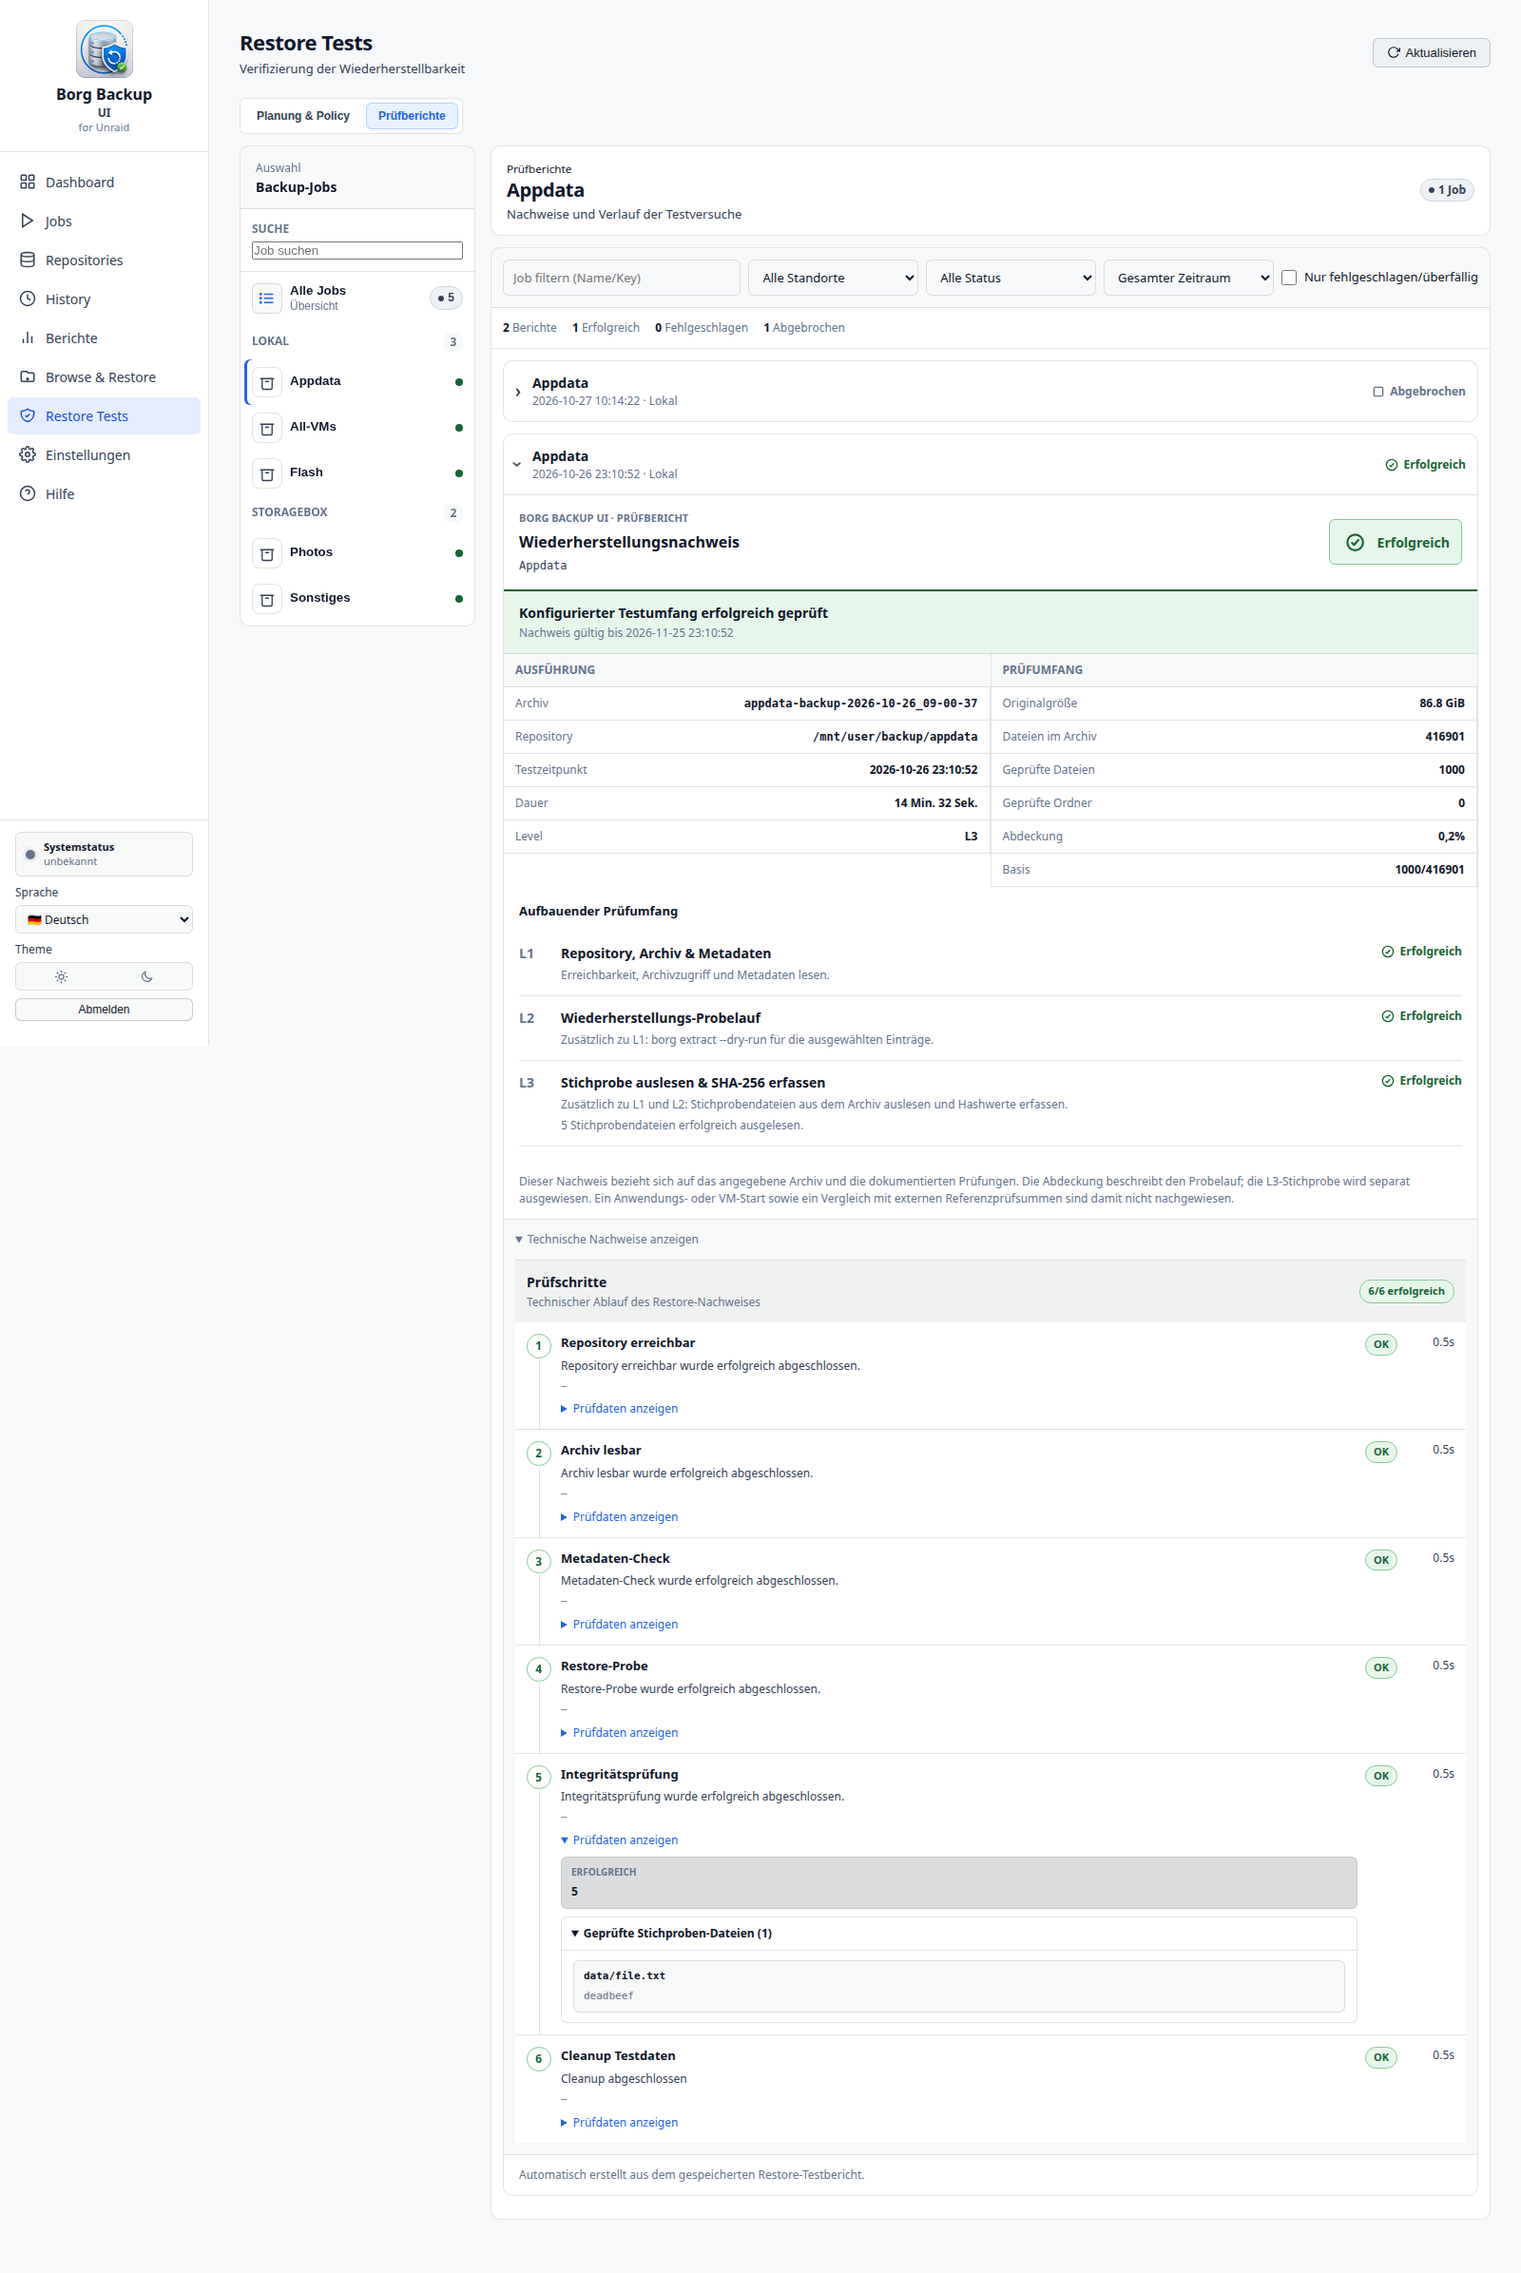
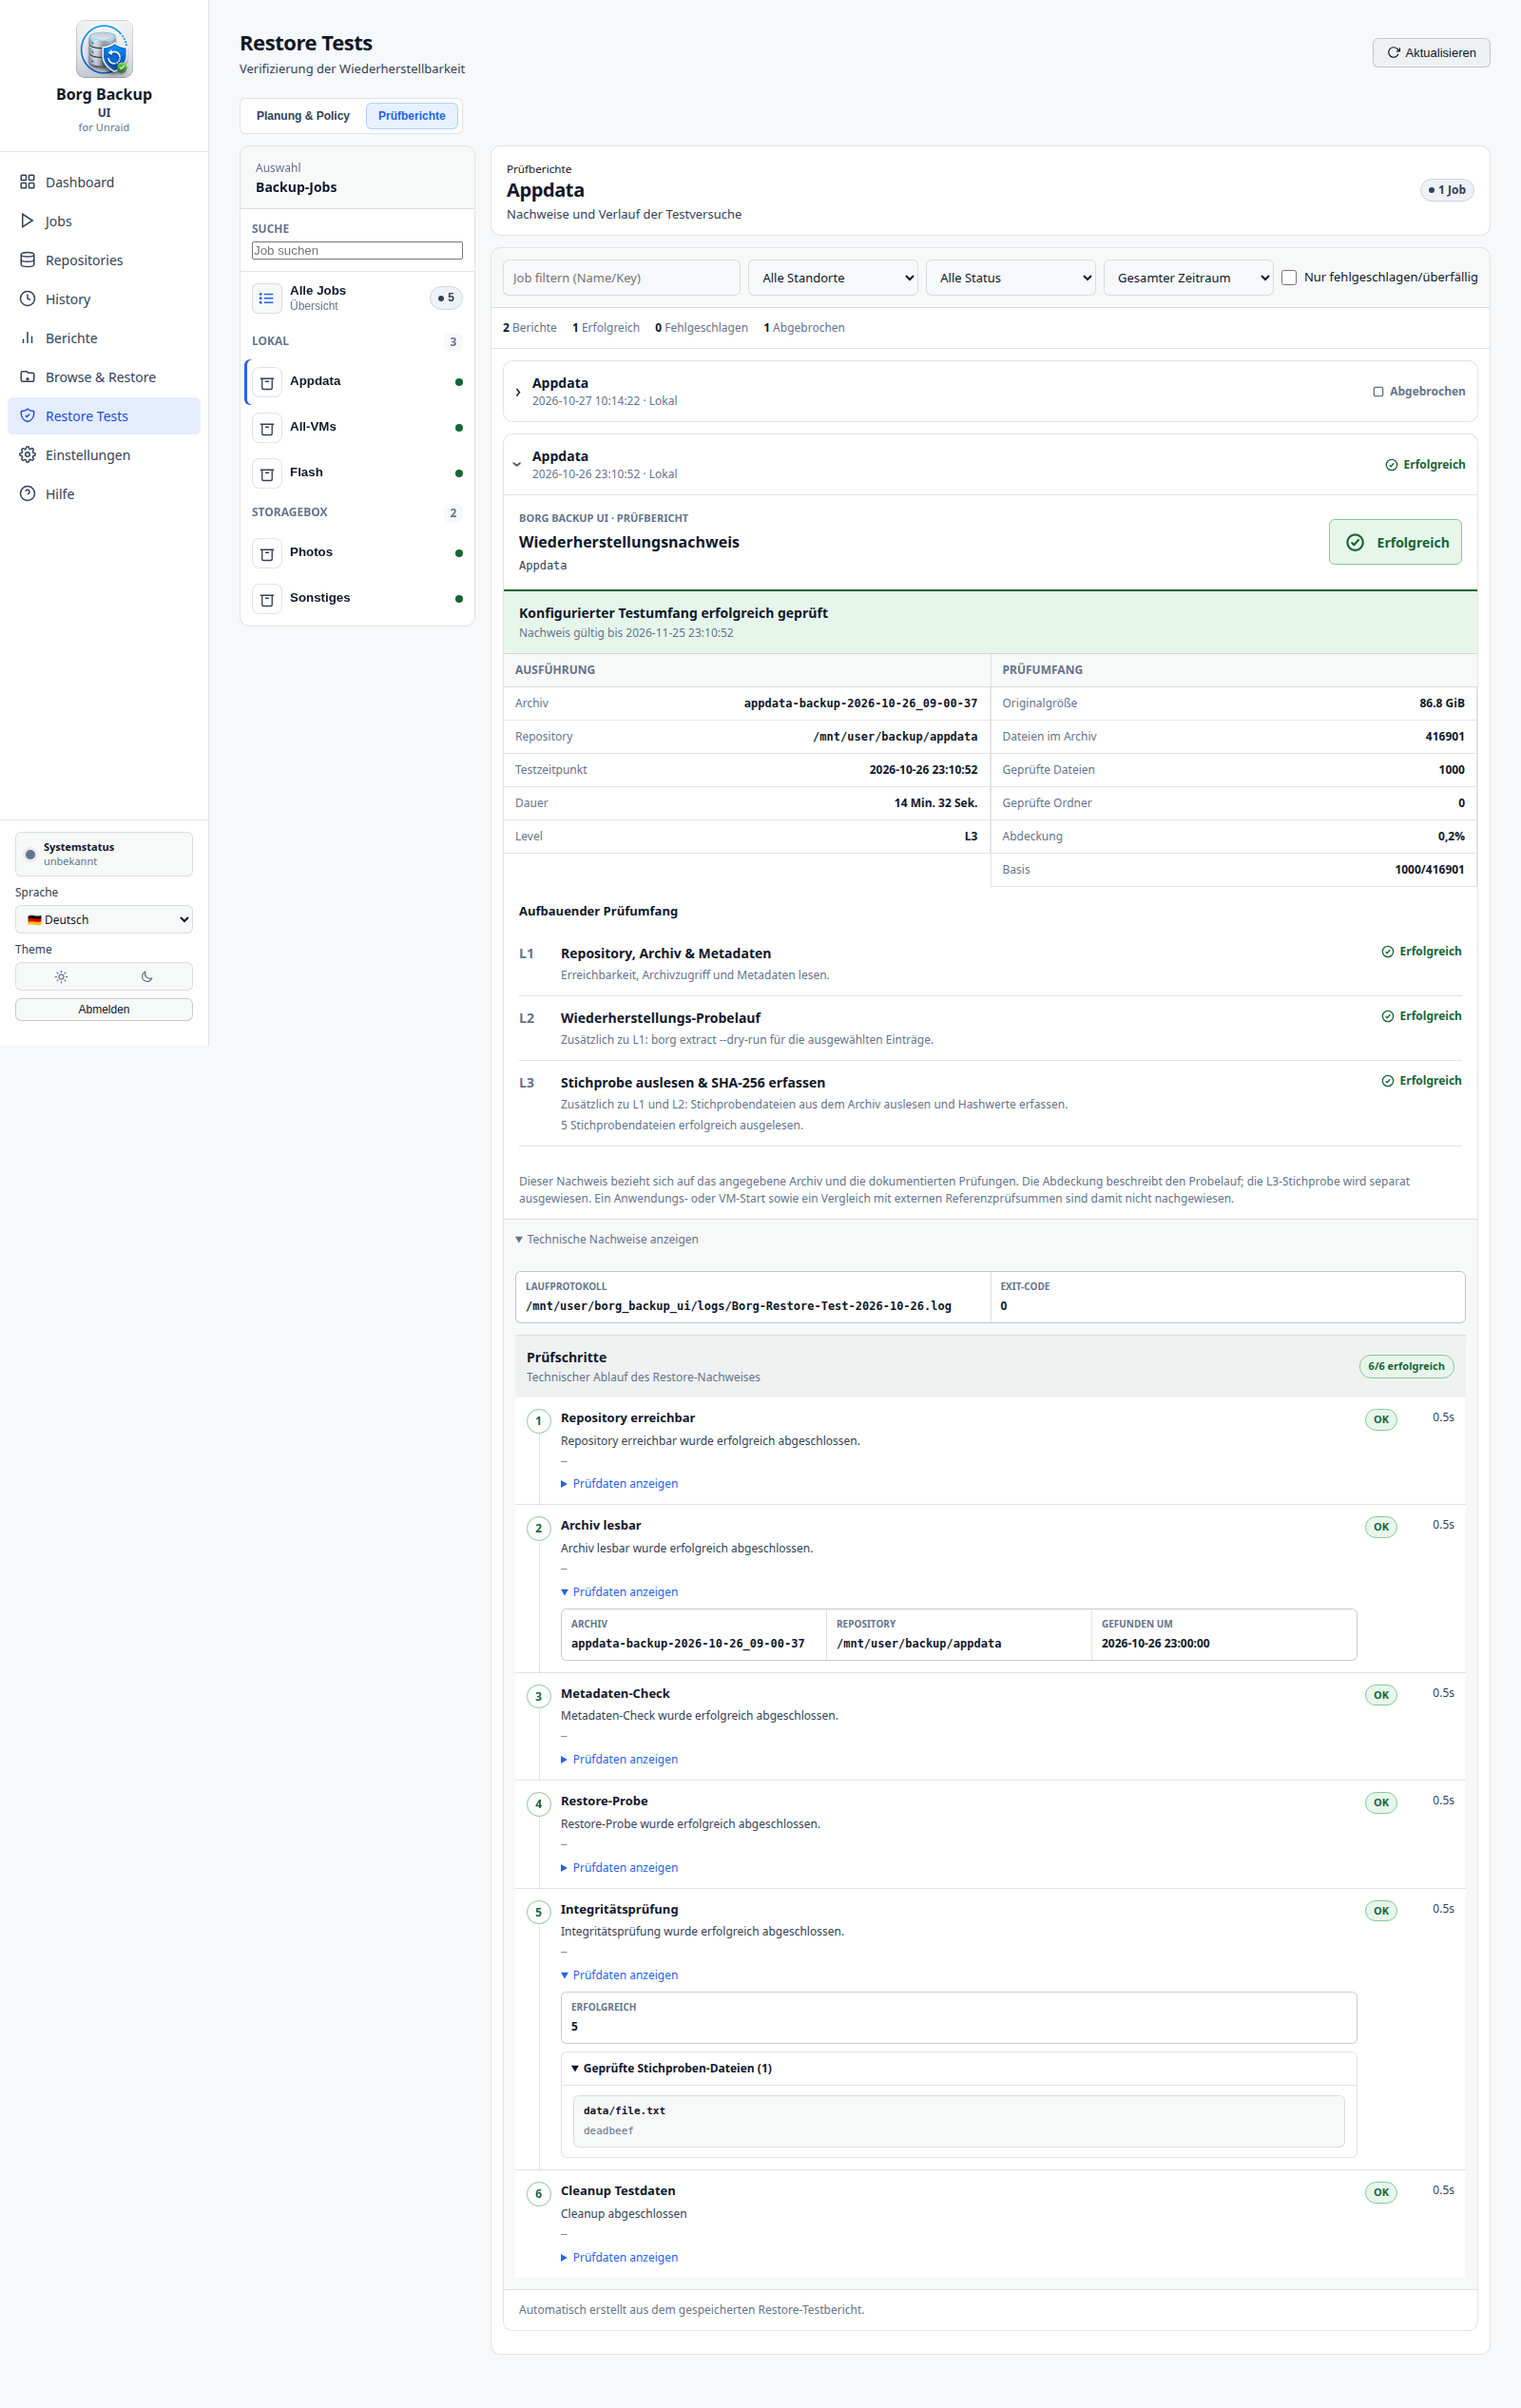
Use thin separators and neutral surfaces for restore check data (#610)

diff --git a/ui/restore-tests-redesign.css b/ui/restore-tests-redesign.css
@@ -108,9 +108,11 @@
 .rt-technical-evidence .rt-step-details {
   display: flex;
   flex-wrap: wrap;
+  gap: 1px;
   margin-top: 0;
+  background: var(--ui-color-border);
 }
-.rt-technical-evidence .rt-step-detail-item { flex: 1 1 14rem; }
+.rt-technical-evidence .rt-step-detail-item { flex: 1 1 14rem; background: var(--ui-color-surface); }
 .rt-technical-step { border: 1px solid var(--ui-color-border); border-top: 0; background: var(--ui-color-surface); }
 .rt-technical-step > summary { padding: var(--ui-space-2) var(--ui-space-3); color: var(--ui-color-text); font-size: var(--ui-font-size-xs); font-weight: var(--ui-font-weight-semibold); cursor: pointer; }
 .rt-technical-step > div { padding: 0 var(--ui-space-3) var(--ui-space-3); }
@@ -237,10 +239,8 @@
 /* One technical disclosure; supporting data stays with its check (#610). */
 .rt-check-evidence { margin-top: var(--ui-space-2); }
 .rt-check-evidence > summary { color: var(--ui-color-accent); font-size: var(--ui-font-size-xs); cursor: pointer; }
-.rt-check-evidence > .rt-step-details { margin-top: var(--ui-space-2); gap: var(--ui-space-2); }
-.rt-check-evidence .rt-step-detail-item { background: var(--ui-color-surface-subtle); }
+.rt-check-evidence > .rt-step-details { margin-top: var(--ui-space-2); }
 .rt-report-diagnostics { padding: var(--ui-space-3) 0; }
-.rt-report-diagnostics .rt-step-details { gap: var(--ui-space-2); }
 .rt-report-diagnostics .rt-step-detail-item { min-width: 0; }
 .rt-report-diagnostics .rt-step-detail-item strong { overflow-wrap: anywhere; }
 .rt-report-card .rt-check-evidence .rt-step-detail-section { margin-top: var(--ui-space-2); }

diff --git a/release-notes/pending/610.md b/release-notes/pending/610.md
@@ -2,4 +2,4 @@
 - Hide empty destinations from the Jobs sidebar and return to All locations when the selected destination loses its last job. (#610)
 - Simplify Restore Tests planning to four columns with compact counts, inline result labels, an action menu, and collapsible guidance. Keep start/cancel and schedule editing available. (#610)
 - Present successful reports as scoped restoration evidence with cumulative L1, L1 + L2 and L1 + L2 + L3 checks. Keep test attempts separate from evidence validity and link cancelled attempts to existing valid evidence. Preserve report filters, technical details, and retained reports. (#610)
-- Consolidate technical evidence into one expandable section, attach supporting data to each check and remove the repeated report ID/start/end execution block. (#610)
+- Consolidate technical evidence into one expandable section, attach supporting data to each check and remove the repeated report ID/start/end execution block. Use thin separators and the normal report surface for technical fields. (#610)
